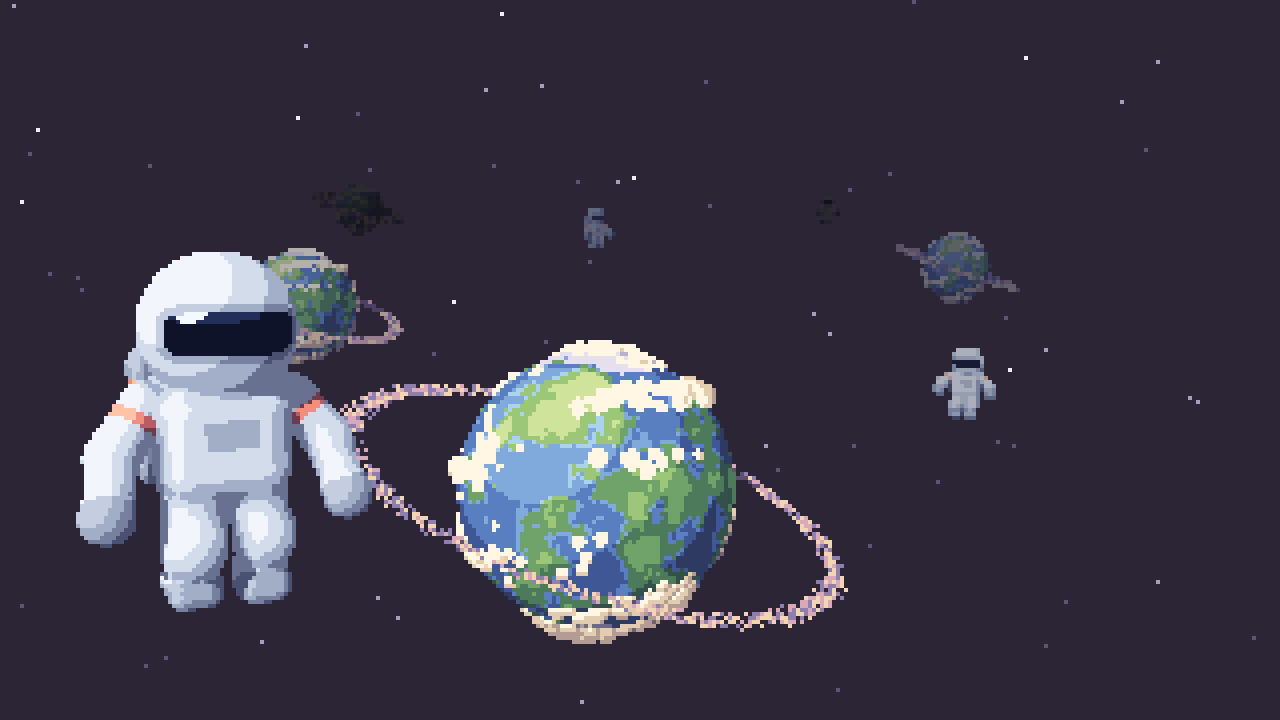
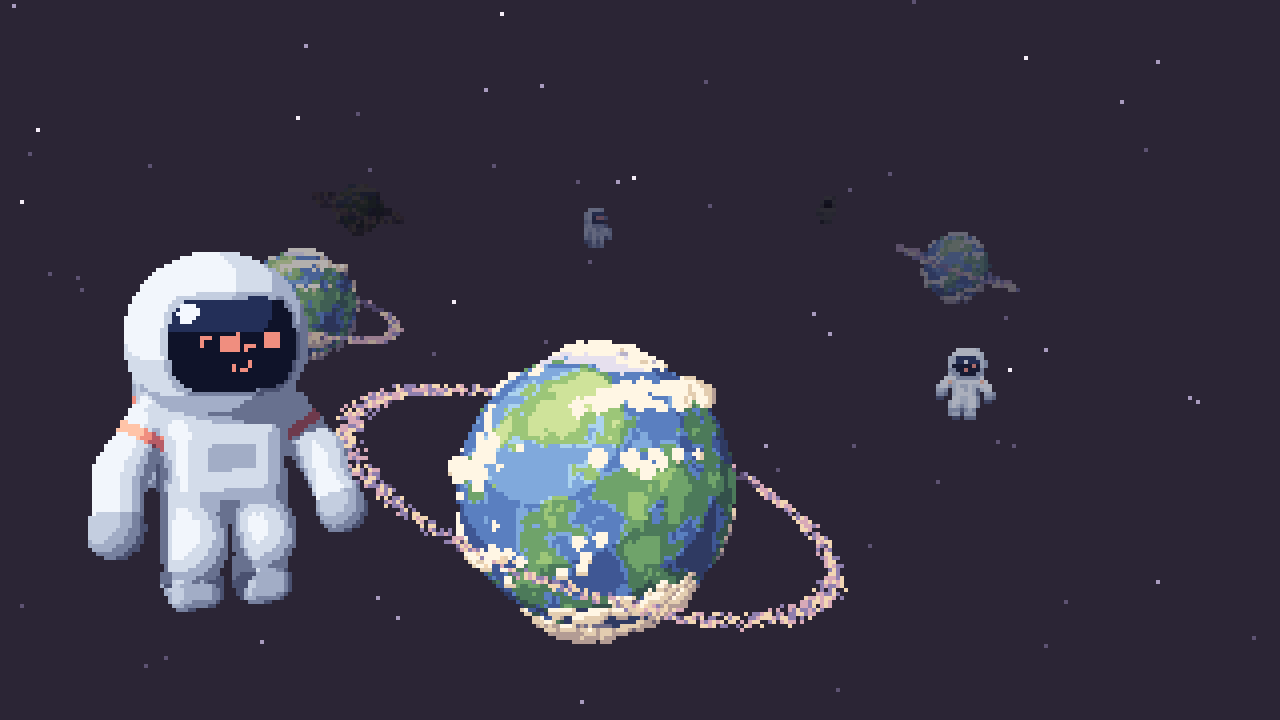
feat(mockup): ASCII screen faces, 4:3 visor, bigger head
Visor becomes a ~4:3 rounded-rect screen with a bezel. ApprenticeHack-style
ASCII faces (13 eye sets, 9 mouths) are hand-drawn pixel bitmaps in a
per-astronaut texture mapped onto the visor, glowing in the contributor
colour, picked by hashing the handle; UI face switch added. Helmet grows to
~48% of height with a smaller torso and backpack.

Changed region(s): [[0.0625, 0.3667, 0.3125, 0.825], [0.7188, 0.4889, 0.7812, 0.55]]

diff --git a/mockups/asset-viewer/viewer.js b/mockups/asset-viewer/viewer.js
@@ -4,6 +4,7 @@
 // with nearest-neighbour, so pixels stay crisp. There's no dithering and no outline.
 import * as THREE from 'three';
 import { OrbitControls } from 'three/addons/controls/OrbitControls.js';
+import { FACE_W, FACE_H, EYES, MOUTHS, faceBitmap, faceFor } from './faces.js';
 
 THREE.ColorManagement.enabled = false; // palette hexes go to the screen untouched
 
@@ -54,6 +55,7 @@ export const PALETTES = {
   },
 };
 export const CONTRIBUTOR_KEYS = ['coral', 'mint', 'lilac'];
+const HANDLES = { coral: '@caden', mint: '@mira', lilac: '@juno' }; // faces are hashed from these
 let paletteName = 'v2';
 // Ramp keys are paths into the active palette, e.g. 'ocean' or 'contributors.mint'.
 const resolve = (key) => key.split('.').reduce((o, k) => o[k], PALETTES[paletteName]);
@@ -429,9 +431,11 @@ const ASTRO_FRAG = /* glsl */ `
   uniform vec3 uAccent[4];
   uniform vec3 uVisor[2];
   uniform vec3 uGlint;
+  uniform sampler2D uFace;
   in vec3 vPosW;
 
-  const vec3 HEAD = vec3(0.0, 0.79, 0.0);
+  const vec3 HEAD = vec3(0.0, 0.76, 0.0);
+  const float HEAD_R = 0.24; // helmet = top 48% of the 1-unit figure
   const vec3 BMIN = vec3(-0.5, -0.08, -0.42);
   const vec3 BMAX = vec3(0.5, 1.06, 0.42);
 
@@ -440,9 +444,9 @@ const ASTRO_FRAG = /* glsl */ `
   float sdCapsule(vec3 p, vec3 a, vec3 b, float r) { vec3 pa = p - a, ba = b - a; float h = clamp(dot(pa, ba) / dot(ba, ba), 0.0, 1.0); return length(pa - ba * h) - r; }
   float limb(vec3 p, vec3 a, vec3 b, vec3 c, float r0, float r1) { return smin(sdCapsule(p, a, b, r0), sdCapsule(p, b, c, r1), 0.035); }
 
-  float dHelmet(vec3 p) { return length(p - HEAD) - 0.21; }
-  float dTorso(vec3 p) { return sdRoundBox(p - vec3(0.0, 0.47, 0.0), vec3(0.17, 0.155, 0.13), 0.075); }
-  float dPack(vec3 p) { return sdRoundBox(p - vec3(0.0, 0.53, -0.2), vec3(0.205, 0.19, 0.085), 0.045); }
+  float dHelmet(vec3 p) { return length(p - HEAD) - HEAD_R; }
+  float dTorso(vec3 p) { return sdRoundBox(p - vec3(0.0, 0.43, 0.0), vec3(0.155, 0.135, 0.12), 0.07); }
+  float dPack(vec3 p) { return sdRoundBox(p - vec3(0.0, 0.49, -0.19), vec3(0.19, 0.17, 0.08), 0.042); }
   float dArm(vec3 p, int i) { return limb(p, uJ[i], uJ[i + 1], uJ[i + 2], 0.062, 0.056); }
   float dHand(vec3 p, int i) { return length(p - (uJ[i + 2] + normalize(uJ[i + 2] - uJ[i + 1]) * 0.035)) - 0.066; }
   float dLeg(vec3 p, int i) { return limb(p, uJ[i], uJ[i + 1], uJ[i + 2], 0.078, 0.07); }
@@ -486,6 +490,16 @@ const ASTRO_FRAG = /* glsl */ `
     return clamp(1.0 - o * 0.3, 0.0, 1.0);
   }
 
+  // Visor screen: a rounded rectangle in yaw/pitch about the helmet centre, ~4:3 once
+  // projected onto the sphere. xy = screen uv (0..1, y down), z = superellipse value.
+  vec3 visorUV(vec3 p) {
+    vec3 d = normalize(p - HEAD);
+    float yaw = atan(d.x, d.z);
+    float pitch = asin(clamp(d.y, -1.0, 1.0)) + 0.02;
+    vec2 q = vec2(yaw / 0.74, pitch / 0.54);
+    return vec3(q.x * 0.5 + 0.5, 0.5 - q.y * 0.5, pow(abs(q.x), 5.0) + pow(abs(q.y), 5.0));
+  }
+
   // 0 suit, 1 gear, 2 accent, 3 visor
   int region(vec3 p) {
     float best = dHelmet(p);
@@ -502,16 +516,11 @@ const ASTRO_FRAG = /* glsl */ `
       d = dBoot(p, i + 6); if (d < best) { best = d; part = 6; }
     }
     if (part == 0) {
-      // Letterbox visor: a rounded rectangle in yaw/pitch, wider than tall, with a gear-tone rim.
-      vec3 d = normalize(p - HEAD);
-      float yaw = atan(d.x, d.z);
-      float pitch = asin(clamp(d.y, -1.0, 1.0)) + 0.03;
-      float visor = pow(abs(yaw / 0.92), 4.0) + pow(abs(pitch / 0.29), 4.0);
-      float rim = pow(abs(yaw / 1.05), 4.0) + pow(abs(pitch / 0.4), 4.0);
-      return visor < 1.0 ? 3 : rim < 1.0 ? 1 : 0;
+      float e = visorUV(p).z;
+      return e < 1.0 ? 3 : e < 1.75 ? 1 : 0; // screen, then a gear-tone bezel
     }
-    if (part == 1) return (p.z > 0.1 && abs(p.x) < 0.07 && abs(p.y - 0.5) < 0.04) ? 1 : 0; // chest panel
-    if (part == 2) return abs(p.y - 0.6) < 0.036 ? 2 : 1; // backpack + contributor stripe
+    if (part == 1) return (p.z > 0.09 && abs(p.x) < 0.065 && abs(p.y - 0.44) < 0.036) ? 1 : 0; // chest panel
+    if (part == 2) return abs(p.y - 0.55) < 0.034 ? 2 : 1; // backpack + contributor stripe
     if (part == 3) {
       // contributor shoulder band around the upper arm
       vec3 a = uJ[armI], b = uJ[armI + 1];
@@ -549,7 +558,11 @@ const ASTRO_FRAG = /* glsl */ `
     if (r == 3) {
       vec3 refl = reflect(rd, n);
       c = (refl.y > 0.18 && b >= 2) ? uVisor[1] : uVisor[0];
-      if (dot(refl, L) > 0.9 && b >= 1) c = uGlint;
+      // The face glows in the contributor colour, unlit, so it reads like a screen.
+      vec2 uv = visorUV(p).xy;
+      ivec2 px = clamp(ivec2(uv * vec2(${FACE_W}.0, ${FACE_H}.0)), ivec2(0), ivec2(${FACE_W - 1}, ${FACE_H - 1}));
+      if (texelFetch(uFace, px, 0).r > 0.5) c = uAccent[2];
+      if (dot(refl, L) > 0.975 && b >= 1) c = uGlint; // small specular glint over the face
     } else if (r == 2) c = uAccent[b];
     else if (r == 1) c = uGear[b];
     else c = uSuit[b];
@@ -561,8 +574,15 @@ const ASTRO_FRAG = /* glsl */ `
 
 const PROXY_GEO = new THREE.BoxGeometry(1, 1.14, 0.84).translate(0, 0.49, 0);
 
+function makeFaceTexture() {
+  const tex = new THREE.DataTexture(new Uint8Array(FACE_W * FACE_H * 4), FACE_W, FACE_H);
+  tex.magFilter = tex.minFilter = THREE.NearestFilter;
+  return tex;
+}
+
 function makeAstronaut(colorKey) {
   const root = new THREE.Group();
+  const face = makeFaceTexture();
   const body = new THREE.Group();
   root.add(body);
   const joints = Array.from({ length: 12 }, () => new THREE.Vector3());
@@ -570,7 +590,7 @@ function makeAstronaut(colorKey) {
     uSuit: 'suit', uGear: 'gear', uAccent: `contributors.${colorKey}`, uVisor: 'visor', uGlint: 'glint',
   }, {
     uInvModel: { value: new THREE.Matrix4() }, uModel: { value: null }, uProj: { value: camera.projectionMatrix },
-    uLightLocal: { value: new THREE.Vector3() }, uJ: { value: joints },
+    uLightLocal: { value: new THREE.Vector3() }, uJ: { value: joints }, uFace: { value: face },
   }, { side: THREE.BackSide });
   const proxy = new THREE.Mesh(PROXY_GEO, mat);
   mat.uniforms.uModel.value = proxy.matrixWorld;
@@ -583,9 +603,9 @@ function makeAstronaut(colorKey) {
     const sway = Math.sin(t * 1.1 + 0.8);
     for (const [k, s] of [[0, -1], [3, 1]]) {
       const lift = 0.02 * Math.sin(t * 1.5 + 0.6 + s * 0.4);
-      joints[k].set(s * 0.2, 0.585, 0);
-      joints[k + 1].set(s * (0.3 + 0.012 * bob), 0.47 + lift, 0.035);
-      joints[k + 2].set(s * (0.325 + 0.015 * bob), 0.37 + lift * 2, 0.11 + 0.01 * sway);
+      joints[k].set(s * 0.185, 0.535, 0);
+      joints[k + 1].set(s * (0.28 + 0.012 * bob), 0.425 + lift, 0.035);
+      joints[k + 2].set(s * (0.305 + 0.015 * bob), 0.33 + lift * 2, 0.11 + 0.01 * sway);
     }
     for (const [k, s, bend] of [[6, -1, 1], [9, 1, 0.6]]) {
       const kb = bend * (0.05 + 0.02 * Math.sin(t * 1.5 + s));
@@ -610,8 +630,12 @@ function makeAstronaut(colorKey) {
     mat.userData.ramps.uAccent = `contributors.${key}`;
     root.userData.depthLevel = -1; // force a re-tint
   }
+  function setFace(eyes, mouth) {
+    face.image.data.set(faceBitmap(eyes, mouth));
+    face.needsUpdate = true;
+  }
   root.userData.phase = 0; // callers stagger this so the crew doesn't bob in sync
-  return { group: root, update, setColor };
+  return { group: root, update, setColor, setFace };
 }
 
 // ---------------------------------------------------------------- stars
@@ -675,7 +699,8 @@ const CREW_SPOT = new THREE.Vector3(14, 0, 0);
 const crew = CONTRIBUTOR_KEYS.map((key, i) => {
   const a = makeAstronaut(key);
   a.group.position.set(CREW_SPOT.x + (i - 1) * 0.72, CREW_SPOT.y, CREW_SPOT.z);
-  a.group.rotation.y = [0.6, 0.2, -0.55][i];
+  a.group.rotation.y = [0.4, 0.05, -0.4][i];
+  a.userData = { color: key };
   a.group.userData.phase = i * 1.7;
   scene.add(a.group);
   return a;
@@ -689,6 +714,7 @@ const solos = [
   { pos: [6.5, 4.2, -38], ry: -0.5 },
 ].map(({ pos, ry }, i) => {
   const a = makeAstronaut('coral');
+  a.userData = { color: null }; // follows state.color
   a.group.position.set(...pos);
   a.group.rotation.y = ry;
   a.group.userData.phase = 0.6 + i * 2.3;
@@ -703,7 +729,7 @@ const VIEWS = {
 };
 
 // ---------------------------------------------------------------- state
-const state = { view: 'planet', seed: 7, ring: true, color: 'coral', pixelH: 180, depth: true, spin: true, time: null, ui: true, palette: 'v2' };
+const state = { view: 'planet', seed: 7, ring: true, color: 'coral', pixelH: 180, depth: true, spin: true, time: null, ui: true, palette: 'v2', eyes: 'auto', mouth: 'auto' };
 let lastSeed = -1;
 
 function applyView(name) {
@@ -739,6 +765,11 @@ function applyState() {
   document.body.style.background = resolve('space');
   planets.forEach((p) => (p.ring.visible = state.ring));
   solos.forEach((s) => s.setColor(state.color));
+  // Faces: hashed from each contributor's handle unless the UI overrides eyes or mouth.
+  for (const a of [...crew, ...solos]) {
+    const auto = faceFor(HANDLES[a.userData.color ?? state.color]);
+    a.setFace(state.eyes === 'auto' ? auto.eyes : +state.eyes, state.mouth === 'auto' ? auto.mouth : +state.mouth);
+  }
   document.getElementById('ui').hidden = !state.ui;
   resize();
 }
@@ -774,6 +805,11 @@ function bindUi() {
   $('depth').addEventListener('change', (e) => { state.depth = e.target.checked; applyState(); });
   $('spin').addEventListener('change', (e) => { state.spin = e.target.checked; });
   $('palette').addEventListener('change', (e) => { state.palette = e.target.value; applyState(); });
+  const fill = (sel, items, label) => items.forEach((v, i) => sel.add(new Option(label(v), String(i))));
+  fill($('eyes'), EYES, (v) => v);
+  fill($('mouth'), MOUTHS, (v) => v || 'none');
+  $('eyes').addEventListener('change', (e) => { state.eyes = e.target.value; applyState(); });
+  $('mouth').addEventListener('change', (e) => { state.mouth = e.target.value; applyState(); });
   addEventListener('resize', resize);
 }
 

diff --git a/mockups/asset-viewer/faces.js b/mockups/asset-viewer/faces.js
@@ -1,0 +1,86 @@
+// ASCII faces for the visor screen, after the ApprenticeHack avatars
+// (site/js/avatar-renderer.js): an eyes string whose glyphs are spaced evenly
+// around the centre, plus an optional mouth, picked from the handle by hash.
+// Real font text turns to mush at our internal resolution, so every glyph is a
+// hand-drawn bitmap ('#' = lit), centred on the eye line or the mouth line.
+
+export const EYES = ['•   •', '◉   ◉', '^   ^', '⌐■_■', '• ▮ •', '>   <', '◕   ◕', '✖   ✖', 'ʘ   ʘ', '◣   ◢', '◕   ↼', '•   ●', '■■■■'];
+export const MOUTHS = ['', '‿', '︿', 'ᴗ', '_', 'ε', '◡', '▽', '—'];
+
+const EYE_GLYPHS = {
+  '•': ['.##.', '####', '####', '.##.'],
+  '●': ['.####.', '######', '######', '######', '######', '.####.'],
+  '◉': ['..###..', '.#...#.', '#.###.#', '#.###.#', '#.###.#', '.#...#.', '..###..'],
+  'ʘ': ['..###..', '.#...#.', '#.....#', '#..#..#', '#.....#', '.#...#.', '..###..'],
+  '^': ['...#...', '..#.#..', '.#...#.', '#.....#'],
+  '⌐': ['###', '#..', '#..'],
+  '■': ['####', '####', '####', '####'], // 4 wide so the 4-glyph sets keep their gaps
+  '_': ['...', '...', '...', '###'],
+  '▮': ['##', '##', '##', '##', '##'],
+  '>': ['##...', '..##.', '....#', '..##.', '##...'],
+  '<': ['...##', '.##..', '#....', '.##..', '...##'],
+  '◕': ['..###..', '.#####.', '##..###', '##..###', '#######', '.#####.', '..###..'],
+  '✖': ['##...##', '.##.##.', '..###..', '.##.##.', '##...##'],
+  '◣': ['#.....', '##....', '###...', '####..', '#####.', '######'],
+  '◢': ['.....#', '....##', '...###', '..####', '.#####', '######'],
+  '↼': ['.#.....', '##.....', '#######'],
+};
+
+const MOUTH_GLYPHS = {
+  '‿': ['#.....#', '.#####.'],
+  '︿': ['.#####.', '#.....#'],
+  'ᴗ': ['#...#', '#...#', '.###.'],
+  '_': ['#####'],
+  'ε': ['.###', '#...', '.###'],
+  '◡': ['#.....#', '##...##', '.#####.'],
+  '▽': ['#######', '.#...#.', '..#.#..', '...#...'],
+  '—': ['#######'],
+};
+
+// Face bitmap: a 4:3 screen. Layout follows the reference's monitor head: the eye
+// row sits at the screen centre and spans ~46% of its width; the mouth sits below.
+// 32x24 keeps one texel close to one internal pixel in the crew close-up at 320x180.
+export const FACE_W = 32;
+export const FACE_H = 24;
+const EYE_SPAN = 15; // centre of first glyph to centre of last (15 keeps 2/4-glyph gaps integer)
+const EYE_LINE = 10; // glyphs are centred vertically on these rows
+const MOUTH_LINE = 17;
+
+/** Same hash as ApprenticeHack's hashStr. */
+export function hashStr(str) {
+  let hash = 0;
+  for (let i = 0; i < str.length; i++) {
+    hash = (hash << 5) - hash + str.charCodeAt(i);
+    hash |= 0;
+  }
+  return Math.abs(hash);
+}
+
+/** Eye and mouth indices for a handle, like the reference's fallback. */
+export const faceFor = (handle) => ({ eyes: hashStr(handle + 'e') % EYES.length, mouth: hashStr(handle + 'm') % MOUTHS.length });
+
+/** Rasterise a face into a FACE_W x FACE_H RGBA buffer (white = lit, row 0 = top). */
+export function faceBitmap(eyesIdx, mouthIdx) {
+  const data = new Uint8Array(FACE_W * FACE_H * 4);
+  const stamp = (rows, cx, cy) => {
+    const w = rows[0].length;
+    const left = Math.round(cx - (w - 1) / 2);
+    const top = Math.round(cy - (rows.length - 1) / 2);
+    rows.forEach((row, j) => {
+      for (let i = 0; i < w; i++) {
+        if (row[i] !== '#') continue;
+        const x = left + i;
+        const y = top + j;
+        if (x < 0 || y < 0 || x >= FACE_W || y >= FACE_H) continue;
+        data.fill(255, (y * FACE_W + x) * 4, (y * FACE_W + x) * 4 + 4);
+      }
+    });
+  };
+  const glyphs = [...EYES[eyesIdx].replace(/\s+/g, '')];
+  const gap = EYE_SPAN / Math.max(1, glyphs.length - 1);
+  const start = (FACE_W - 1) / 2 - (glyphs.length > 1 ? EYE_SPAN / 2 : 0);
+  glyphs.forEach((g, i) => stamp(EYE_GLYPHS[g], start + i * gap, EYE_LINE));
+  const mouth = MOUTHS[mouthIdx];
+  if (mouth) stamp(MOUTH_GLYPHS[mouth], (FACE_W - 1) / 2, MOUTH_LINE);
+  return data;
+}

diff --git a/mockups/asset-viewer/index.html b/mockups/asset-viewer/index.html
@@ -28,6 +28,8 @@
     <label>seed <span id="seed-readout">7</span><input id="seed" type="range" min="1" max="999" value="7"></label>
     <div class="row"><button id="reseed">new planet</button></div>
     <label>ring <input id="ring" type="checkbox" checked></label>
+    <label>eyes <select id="eyes"><option value="auto">auto (handle)</option></select></label>
+    <label>mouth <select id="mouth"><option value="auto">auto (handle)</option></select></label>
     <label>contributor <select id="color"><option value="coral">coral</option><option value="mint">mint</option><option value="lilac">lilac</option></select></label>
     <label>pixel h <input id="pixel" type="range" min="120" max="480" value="180"></label>
     <div class="hint" id="pixel-readout"></div>

diff --git a/mockups/asset-viewer/README.md b/mockups/asset-viewer/README.md
@@ -21,7 +21,8 @@ npm run shots    # re-capture screenshots/ in headless Chromium (no server, no n
 | planet / crew / depth | Camera presets: the planet close-up, the three-astronaut line-up, and the depth scene |
 | seed, new planet | Regenerates land, sea level, cloud heaps and ring dust. All three planet copies share the seed |
 | ring | Shows or hides the scattered-pixel ring |
-| contributor | Sets the backpack-stripe and shoulder-band colour of the solo astronauts in the depth scene. The crew line-up always shows all three |
+| contributor | Sets the backpack-stripe, shoulder-band and face colour of the solo astronauts in the depth scene. The crew line-up always shows all three |
+| eyes, mouth | Face override for every astronaut; `auto` hashes the face from the contributor's handle |
 | pixel h | Internal height from 120 to 480. Width is 16:9, and the canvas is upscaled by the largest integer factor that fits, with nearest-neighbour filtering |
 | depth fade | Turns depth darkening on or off |
 | rotate | Pauses or resumes planet and cloud spin |
@@ -35,7 +36,8 @@ npm run shots    # re-capture screenshots/ in headless Chromium (no server, no n
 - **Planet**: a sphere whose shader uses 3D simplex fbm for land and ocean, with shallow-water and highland steps and noisy polar caps.
 - **Clouds**: instanced icosphere puffs squashed to 60% along the radial axis, so they hug the surface. Placement is noise-driven, like Planetarium. A low-frequency fbm field makes a few large merged masses, and a latitude-stretched field makes long east-west streaks. Wherever both fields are low the sky stays clear. Denser spots get bigger, higher puffs, so cores merge and dome past the silhouette, and a few small strays scatter at the edges of the weather. Each puff's normal is blended with the planet's radial direction, so a mass shades as one body with a lumpy edge. The clouds spin slightly faster than the ground.
 - **Ring**: one thin band of 1,500 points, densest in the middle. Every dot is exactly 1 internal pixel at every resolution. Points in the planet's shadow use the darkest ring colour.
-- **Astronaut**: one signed-distance body, raymarched inside a proxy box and composited with `gl_FragDepth`. It's made from primitives: a helmet sphere (the top 40%), a rounded-box torso, a backpack wider than the torso, mitts and boots. Each arm and leg is one continuous bent tube (shoulder→elbow→wrist, hip→knee→ankle), smooth-unioned so the bend has no seam. Elbows and knees are softly bent, and they flex with the idle bob. Because it is one surface, one lighting pass shades the whole body. Cast shadows (arm on torso, helmet on shoulders) and contact occlusion come from marching the same field toward the light, then snapping to the 4-step suit ramp. The suit is a cool white. The visor is a wide letterbox (a rounded rectangle in yaw and pitch, about 2.7:1) with a gear-tone rim, in near-black blue two tones plus a white glint. **Contributor colour** is on the backpack stripe and a band around each upper arm (shoulder bands), so it's readable from any angle.
+- **Astronaut**: one signed-distance body, raymarched inside a proxy box and composited with `gl_FragDepth`. It's made from primitives: a helmet sphere (the top 48%, so the head is big and the body small), a rounded-box torso, a backpack wider than the torso, mitts and boots. Each arm and leg is one continuous bent tube (shoulder→elbow→wrist, hip→knee→ankle), smooth-unioned so the bend has no seam. Elbows and knees are softly bent, and they flex with the idle bob. Because it is one surface, one lighting pass shades the whole body. Cast shadows (arm on torso, helmet on shoulders) and contact occlusion come from marching the same field toward the light, then snapping to the 4-step suit ramp. The suit is a cool white. The visor is a ~4:3 rounded-rect "screen" (a superellipse in yaw and pitch) with a gear-tone bezel, in two near-black blue tones plus a small white glint. **Contributor colour** is on the backpack stripe and a band around each upper arm (shoulder bands), so it's readable from any angle.
+- **Faces** (`faces.js`): ASCII faces after the ApprenticeHack avatars. There are 13 eye sets and 9 mouths, with eye glyphs spaced evenly about the centre and an optional mouth below. Each is a hand-drawn pixel bitmap, because font text turns to mush at this resolution. They're stamped into a 32×24 texture per astronaut and sampled with `texelFetch` from the visor's yaw/pitch coordinates, so they turn with the head and one texel is about one pixel in the crew close-up. Faces glow in the contributor colour and ignore scene lighting. Eyes and mouth are picked from the contributor's handle with ApprenticeHack's `hashStr(handle + 'e' / 'm')`: `@caden` (coral) gets `⌐■_■` + `ᴗ`, `@mira` (mint) gets `■■■■` + `▽`, and `@juno` (lilac) gets `◕   ↼` + `—`.
 - **Depth darkening**: each whole object picks one of four levels from its camera distance (switch points at 12, 26 and 44). Its ramps are swapped for precomputed steps: `lerp(colour, #1b1f4a, 0 / 0.38 / 0.72)`, then `lerp(colour, #17172f, 0.88)` for the last step. That gives about -35% value at mid, about -70% far, and a dark navy silhouette with a faint hint of colour furthest out. The silhouette tint sits a touch above the near-black space so it still reads. Every step is a fixed palette colour; there are no gradients.
 
 ## Palette
@@ -66,7 +68,8 @@ v2 is the current palette. v1 (the batch 1 pastels) stays selectable from the `p
 | `screenshots/planet-closeup.png` | Seed 7 with ring, 320×180 ×4 |
 | `screenshots/planet-no-ring.png` | Same, ring off |
 | `screenshots/planet-seed-311.png` | Another seed |
-| `screenshots/crew-closeup.png` | Coral, mint and lilac astronauts |
+| `screenshots/crew-closeup.png` | Coral, mint and lilac astronauts with their three hashed faces |
+| `screenshots/crew-face-switch.png` | Same crew with the face switch set to `◉   ◉` + `◡` |
 | `screenshots/depth-scene.png` | Planet and astronaut copies at all four depth steps, fade on |
 | `screenshots/depth-scene-off.png` | Same scene, fade off, for comparison |
 | `screenshots/pixel-120.png` | Chunkier pixels: 213×120 ×6 |
